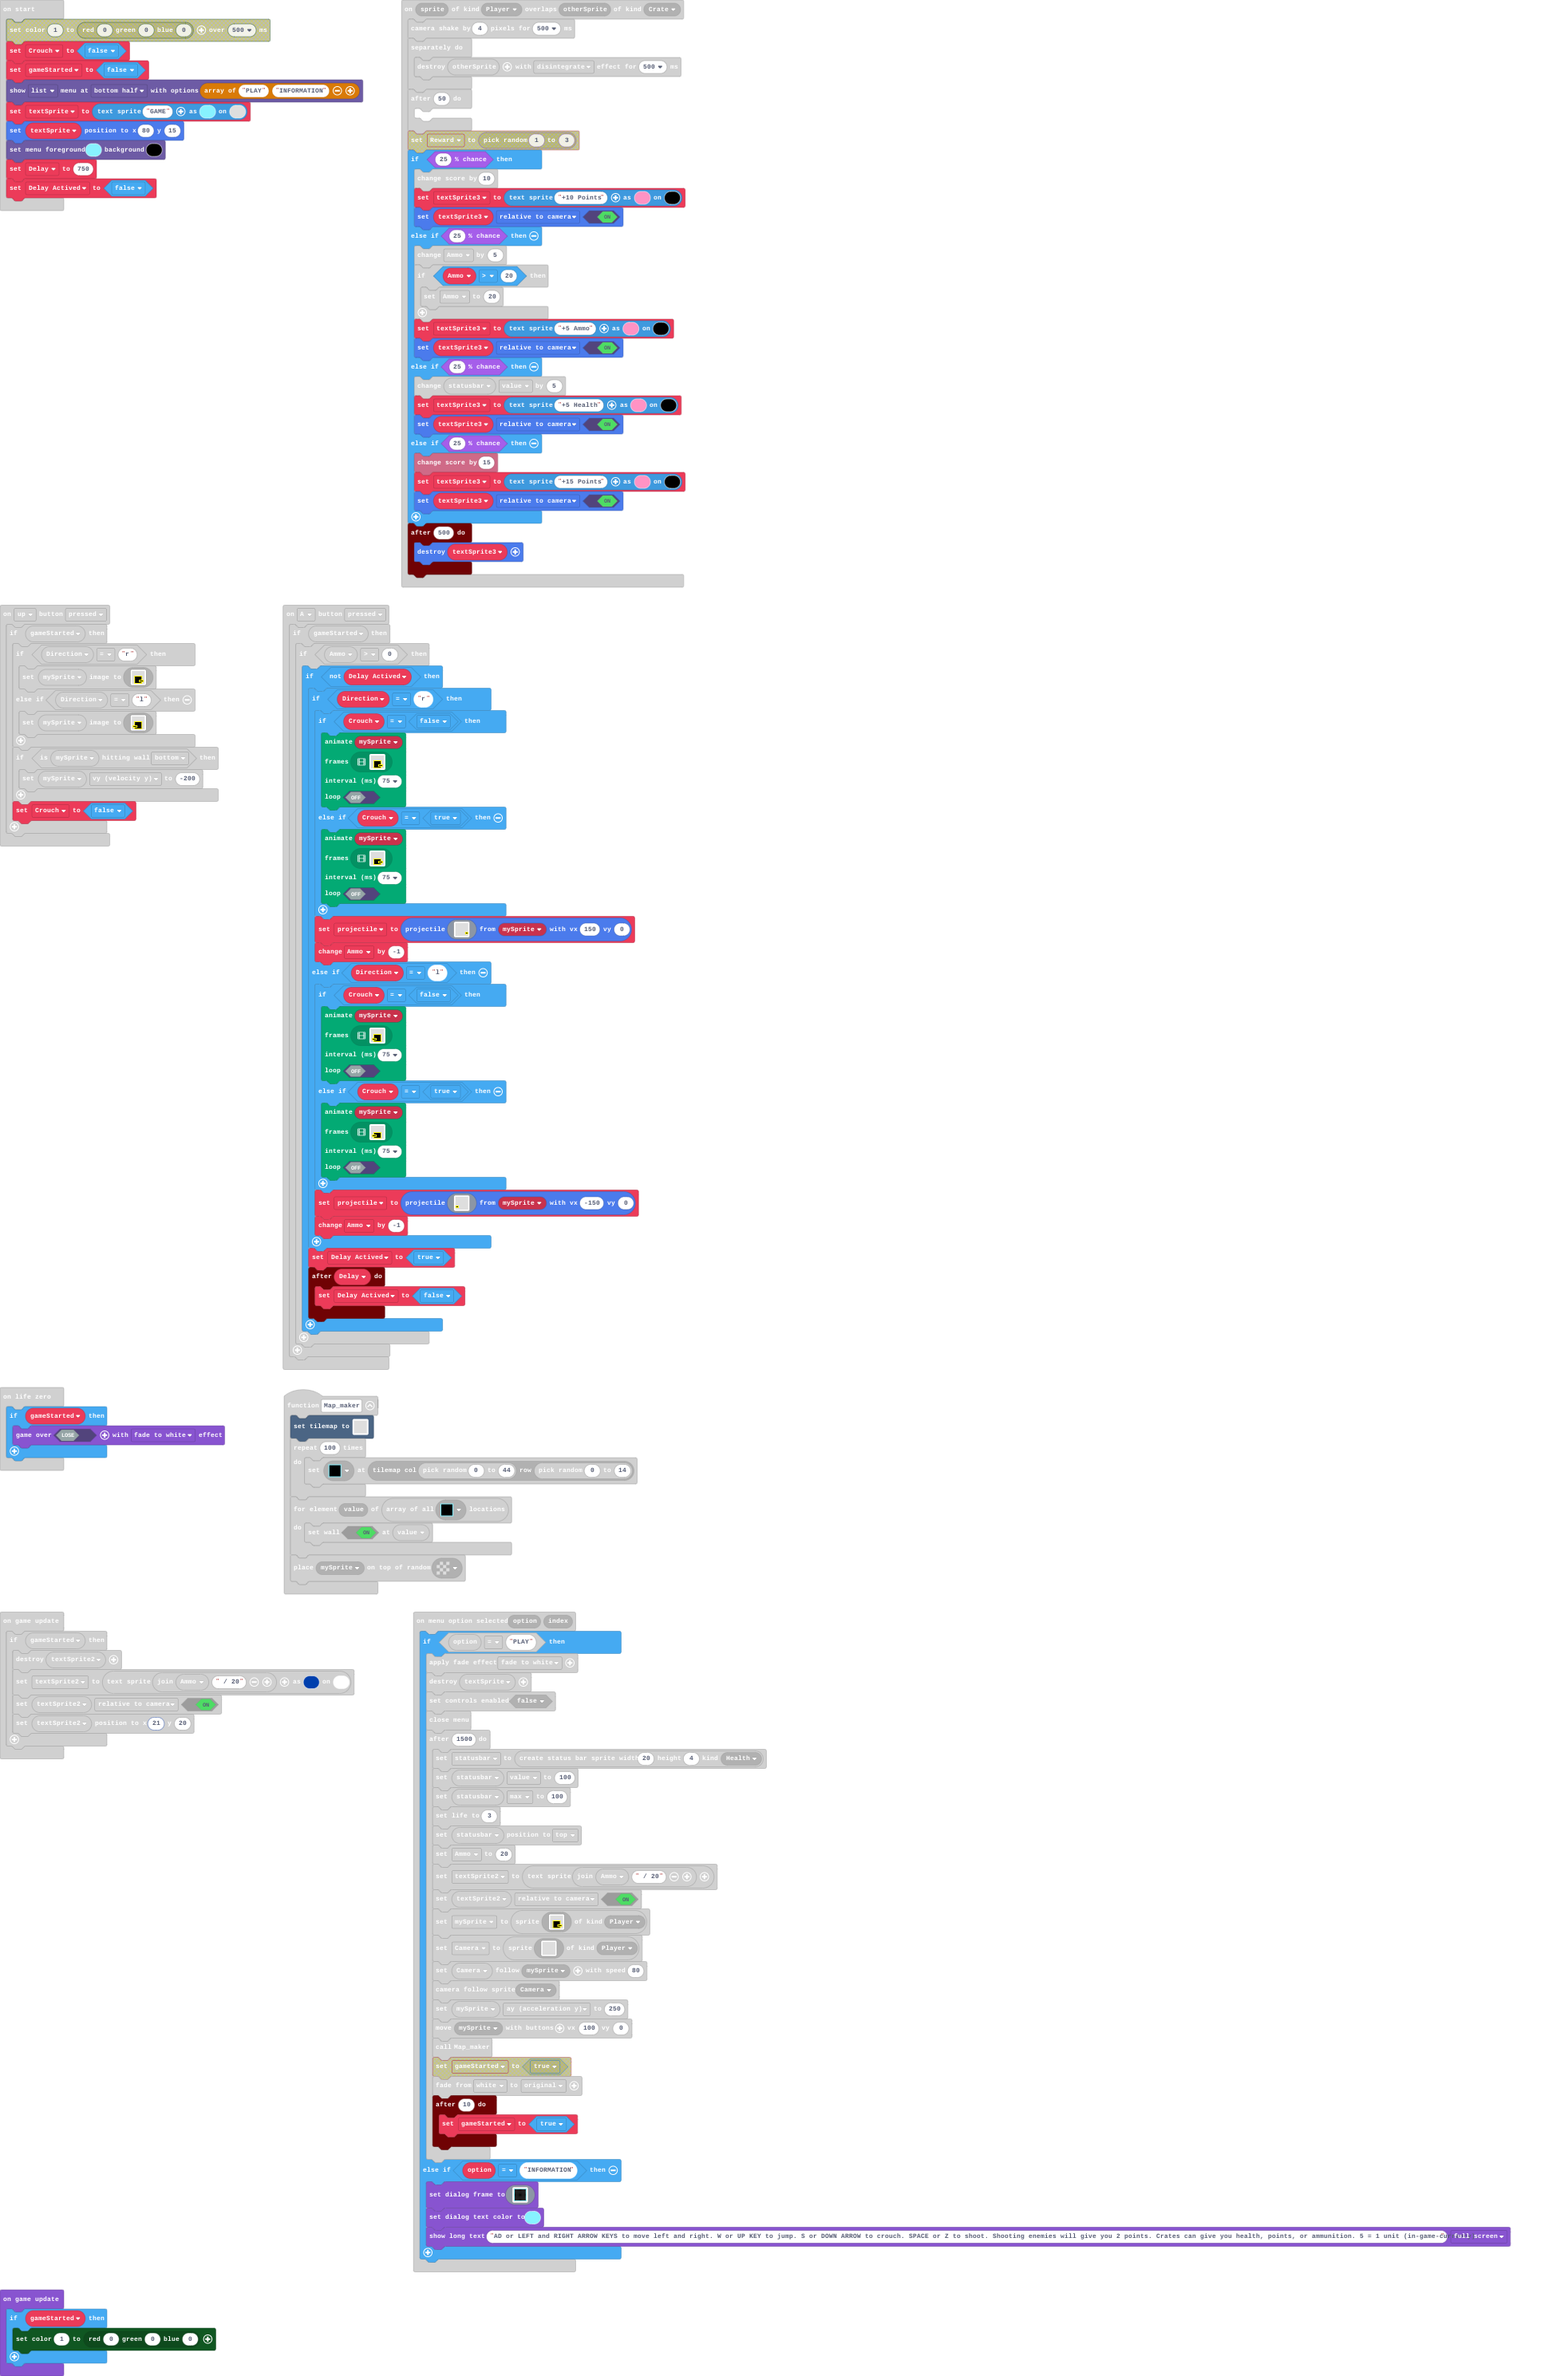
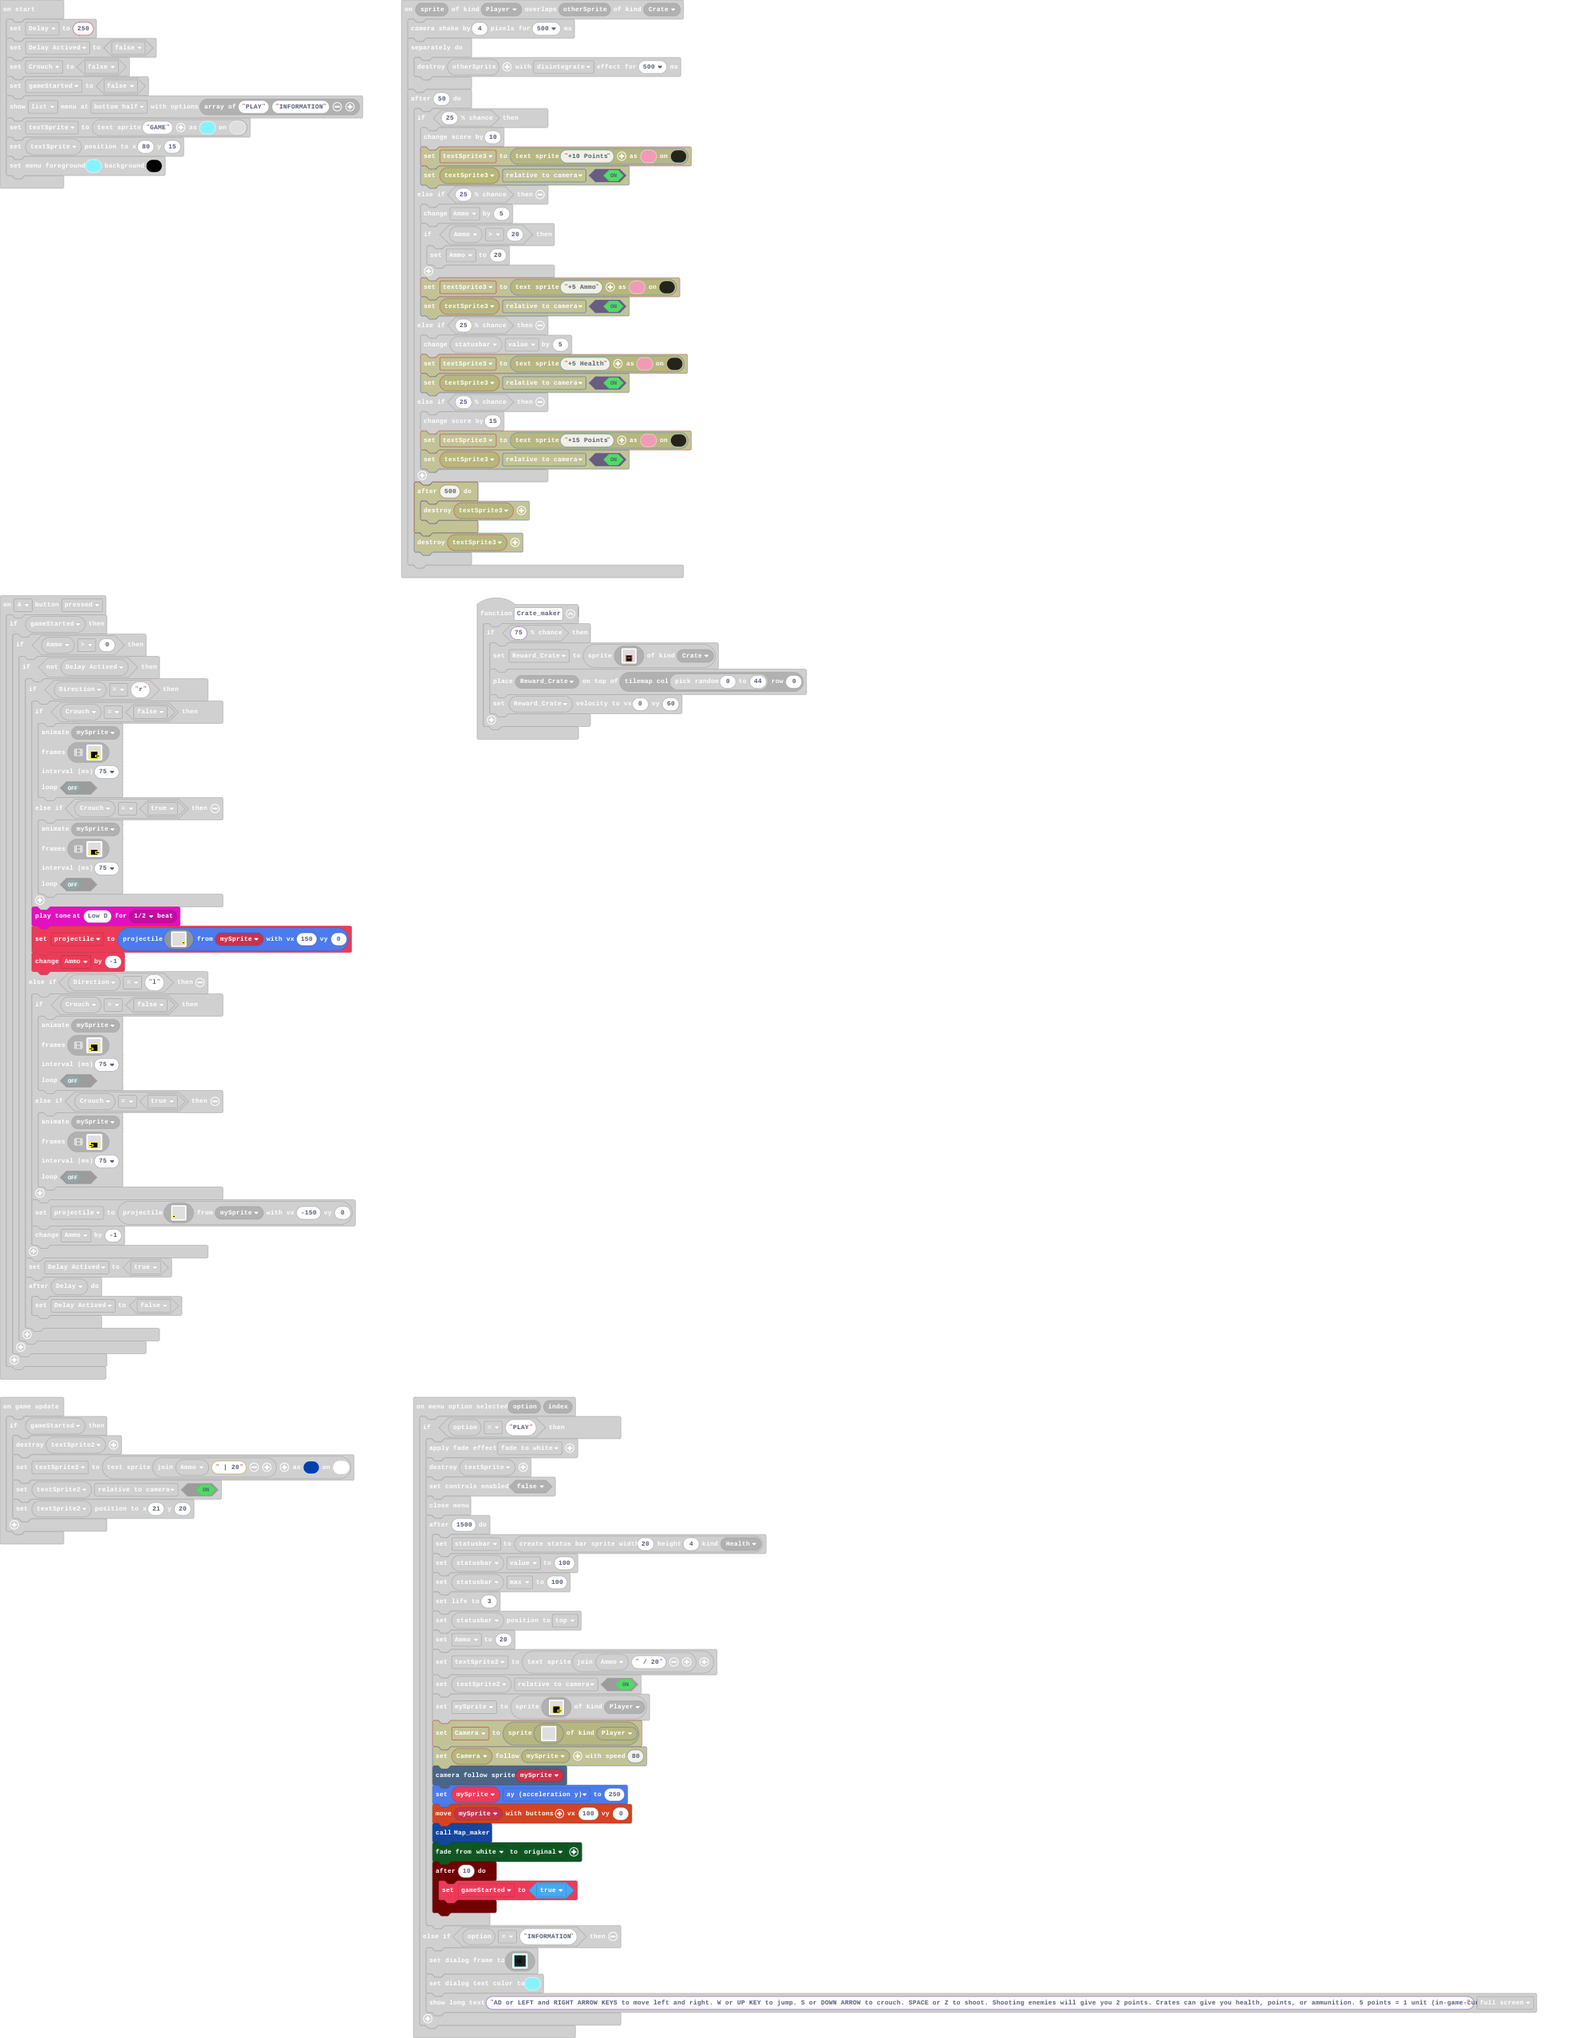
Update main.blocks, main.ts, tilemap.g.jres, tilemap.g.ts

Changed region(s): [[0.0, 0.0, 0.9871, 1.0], [0.0, 0.9589, 0.1542, 1.0]]

diff --git a/main.ts b/main.ts
@@ -59,27 +59,16 @@ sprites.onOverlap(SpriteKind.Player, SpriteKind.Crate, function (sprite, otherSp
     timer.after(50, function () {
         if (Math.percentChance(25)) {
             info.changeScoreBy(10)
-            textSprite3 = textsprite.create("+10 Points", 15, 3)
-            textSprite3.setFlag(SpriteFlag.RelativeToCamera, true)
         } else if (Math.percentChance(25)) {
             Ammo += 5
             if (Ammo > 20) {
                 Ammo = 20
             }
-            textSprite3 = textsprite.create("+5 Ammo", 15, 3)
-            textSprite3.setFlag(SpriteFlag.RelativeToCamera, true)
         } else if (Math.percentChance(25)) {
             statusbar.value += 5
-            textSprite3 = textsprite.create("+5 Health", 15, 3)
-            textSprite3.setFlag(SpriteFlag.RelativeToCamera, true)
         } else if (Math.percentChance(25)) {
             info.changeScoreBy(15)
-            textSprite3 = textsprite.create("+15 Points", 15, 3)
-            textSprite3.setFlag(SpriteFlag.RelativeToCamera, true)
         }
-        timer.after(500, function () {
-            textSprite3.destroy()
-        })
     })
 })
 sprites.onOverlap(SpriteKind.Player, SpriteKind.BasicEnemy, function (sprite, otherSprite) {
@@ -92,7 +81,7 @@ sprites.onOverlap(SpriteKind.Player, SpriteKind.BasicEnemy, function (sprite, ot
     })
 })
 function Crate_maker () {
-    if (Math.percentChance(50)) {
+    if (Math.percentChance(75)) {
         Reward_Crate = sprites.create(img`
             . . . . . . . . . . . . . . . . 
             . . . . . . . . . . . . . . . . 
@@ -305,6 +294,7 @@ controller.A.onEvent(ControllerButtonEvent.Pressed, function () {
                         false
                         )
                     }
+                    music.playTone(147, music.beat(BeatFraction.Half))
                     projectile = sprites.createProjectileFromSprite(img`
                         . . . . . . . . . . . . . . . . 
                         . . . . . . . . . . . . . . . . 
@@ -779,26 +769,7 @@ blockMenu.onMenuOptionSelected(function (option, index) {
                 . . . 5 f f f f f f f f 5 . . . 
                 . . . 5 5 5 5 5 5 5 5 5 5 . . . 
                 `, SpriteKind.Player)
-            Camera = sprites.create(img`
-                . . . . . . . . . . . . . . . . 
-                . . . . . . . . . . . . . . . . 
-                . . . . . . . . . . . . . . . . 
-                . . . . . . . . . . . . . . . . 
-                . . . . . . . . . . . . . . . . 
-                . . . . . . . . . . . . . . . . 
-                . . . . . . . . . . . . . . . . 
-                . . . . . . . . . . . . . . . . 
-                . . . . . . . . . . . . . . . . 
-                . . . . . . . . . . . . . . . . 
-                . . . . . . . . . . . . . . . . 
-                . . . . . . . . . . . . . . . . 
-                . . . . . . . . . . . . . . . . 
-                . . . . . . . . . . . . . . . . 
-                . . . . . . . . . . . . . . . . 
-                . . . . . . . . . . . . . . . . 
-                `, SpriteKind.Player)
-            Camera.follow(mySprite, 80)
-            scene.cameraFollowSprite(Camera)
+            scene.cameraFollowSprite(mySprite)
             mySprite.ay = 250
             controller.moveSprite(mySprite, 100, 0)
             Map_maker()
@@ -826,7 +797,7 @@ blockMenu.onMenuOptionSelected(function (option, index) {
             9 9 9 9 9 9 9 9 9 9 9 9 9 9 9 
             `)
         game.setDialogTextColor(9)
-        game.showLongText("AD or LEFT and RIGHT ARROW KEYS to move left and right. W or UP KEY to jump. S or DOWN ARROW to crouch. SPACE or Z to shoot. Shooting enemies will give you 2 points. Crates can give you health, points, or ammunition. 5 = 1 unit (in-game-currency).", DialogLayout.Full)
+        game.showLongText("AD or LEFT and RIGHT ARROW KEYS to move left and right. W or UP KEY to jump. S or DOWN ARROW to crouch. SPACE or Z to shoot. Shooting enemies will give you 2 points. Crates can give you health, points, or ammunition. 5 points = 1 unit (in-game-currency).", DialogLayout.Full)
     }
 })
 function Enemy_Maker () {
@@ -853,13 +824,11 @@ function Enemy_Maker () {
     mySprite.lifespan = 10000
 }
 let Basic_Enemy: Sprite = null
-let Camera: Sprite = null
 let textSprite2: Sprite = null
 let projectile: Sprite = null
 let Reward_Crate: Sprite = null
 let statusbar: StatusBarSprite = null
 let Ammo = 0
-let textSprite3: TextSprite = null
 let mySprite: Sprite = null
 let Direction = ""
 let textSprite: Sprite = null
@@ -867,7 +836,7 @@ let gameStarted = false
 let Crouch = false
 let Delay_Actived = false
 let Delay = 0
-Delay = 750
+Delay = 250
 Delay_Actived = false
 Crouch = false
 gameStarted = false
@@ -878,7 +847,7 @@ blockMenu.setColors(9, 15)
 game.onUpdate(function () {
     if (gameStarted) {
         textSprite2.destroy()
-        textSprite2 = textsprite.create("" + Ammo + " / 20", 1, 8)
+        textSprite2 = textsprite.create("" + Ammo + " | 20", 1, 8)
         textSprite2.setFlag(SpriteFlag.RelativeToCamera, true)
         textSprite2.setPosition(21, 20)
     }

diff --git a/tilemap.g.ts b/tilemap.g.ts
@@ -58,6 +58,23 @@ namespace myTiles {
 .............................................
 .............................................
 `, [myTiles.transparency16], TileScale.Sixteen)
[1 lines of base64/hex data omitted]
+.............................................
+.............................................
+.............................................
+.............................................
+.............................................
+.............................................
+.............................................
+.............................................
+.............................................
+.............................................
+.............................................
+.............................................
+.............................................
+.............................................
+.............................................
+`, [myTiles.transparency16,myTiles.tile16], TileScale.Sixteen)
         }
         return null;
     })
